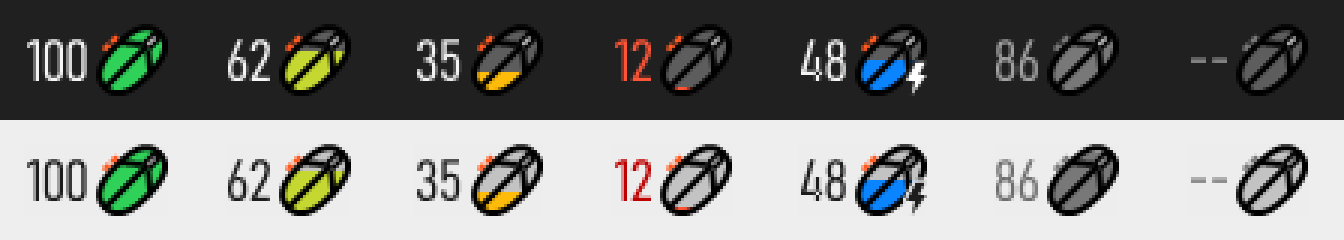
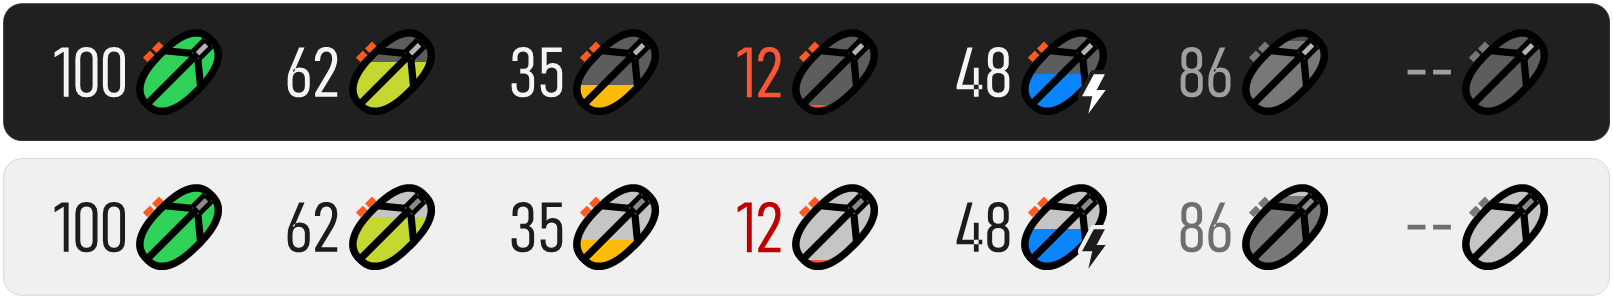
README: sharp pictures, default look up front, details in a gallery

diff --git a/README.md b/README.md
@@ -1,36 +1,37 @@
+<div align="center">
+
 **English** | [简体中文](README.zh-CN.md)
 
-# HypaceTray — Lofree Hypace battery level in the Windows taskbar
+# HypaceTray
 
-Shows the battery level of a Lofree Hypace mouse right in the Windows taskbar: the percentage, next to a small mouse that fills up with the charge. No need to open the web driver; hover for details.
+Battery level of the Lofree Hypace mouse, right in the Windows taskbar.
 
-![In the taskbar: the battery percentage and the mouse, right of ^](docs/images/taskbar.png)
+<img src="docs/images/hero.png" width="276" alt="The taskbar right of ^: 80 and the Hypace mouse">
 
-By default the mouse is a photo of the Hypace in Ghost, whose drained part turns see-through. All three colourways in every state (top three rows: dark taskbar, bottom three: light taskbar): full, 62%, 35%, 12% (number turns red), charging (with the bolt), asleep (no colour, showing the last level read), no reading yet (`--`).
+</div>
 
-![Realistic style: Crayon Grey, Jet Black and Ghost in every state](docs/images/realistic.png)
+HypaceTray puts the Hypace's battery level right of the taskbar's `^`: the percentage, next to a picture of the mouse that fills up with the charge. It talks to the mouse's 8K receiver directly, so there is no web driver to open; hover for details, left-click to refresh.
 
-The three ways the realistic mouse can show the level (picked under **Mouse style → Realistic**), at 62% and while charging:
+<p align="center">
+  <img src="docs/images/realistic-ghost.png" width="806" alt="The default look on a dark and a light taskbar, in every state">
+  <br>
+  <sub>The default look on a dark and a light taskbar: 100%, 62%, 35%, 12%, charging, asleep (last level read), no reading yet</sub>
+</p>
 
-![The three level displays for each colourway](docs/images/displays-en.png)
+Two more colourways, three ways of showing the level and a drawn style are in the right-click menu: see the **[Gallery](#gallery)**.
 
-The **Drawn** style in the same states (top row: dark taskbar, bottom row: light taskbar); it turns blue while charging:
-
-![Drawn style in every state](docs/images/drawn.png)
-
-The mouse photos are © Lofree; the pictures above are the program's own 20-pixel renders of them, enlarged 3x.
-
+> [!NOTE]
 > Unofficial tool, not affiliated with Lofree. It only reads the battery level and never changes any mouse settings.
 
 ## Requirements
 
-- Windows 11 (uses the .NET Framework 4.x that comes with Windows; nothing to install). Windows 10 should work too but is untested.
+- Windows 11, using the .NET Framework 4.x that comes with it; nothing to install. Windows 10 should work too but is untested.
 - A Lofree Hypace mouse with its 8K receiver (VID `0x3554`, PID `0xFB16`). Other models and receivers are untested.
 
 ## Install and run
 
 1. Download this repository: **Code → Download ZIP** and unzip it, or `git clone` it.
-2. Open PowerShell in the repository folder and run the command below. It builds `build\HypaceTray.exe` with the C# compiler that ships with Windows; no Visual Studio or .NET SDK needed:
+2. Open PowerShell in the repository folder and build `build\HypaceTray.exe` with the C# compiler that ships with Windows (no Visual Studio or .NET SDK needed):
 
    ```powershell
    powershell -ExecutionPolicy Bypass -File .\build.ps1
@@ -39,26 +40,87 @@ The mouse photos are © Lofree; the pictures above are the program's own 20-pixe
 3. Double-click `build\HypaceTray.exe`. To start it with Windows, tick **Start with Windows** in its right-click menu.
 4. On first run Windows usually tucks the new tray icon under `^`, so the battery first shows left of `^`. Open `^` and drag the number icon onto the taskbar (or turn HypaceTray on under Settings → Personalization → Taskbar → Other system tray icons); the battery then shows right of `^`.
 
-The menus, hover tips and notifications come in English (the default) and Chinese; switch at any time under **Language** in the right-click menu.
-
 ## Features
 
-- Right of the tray's `^` sits one block: the battery percentage, next to a Hypace mouse laid along the diagonal, 20% larger than a normal tray icon. The block takes a single tray slot and follows it when tray icons come and go.
-- The charge rises from the bottom of the mouse. At 20% and below the number itself turns orange or red; a notification pops up once at 20% and once at 10%.
-- While charging, the number climbs and the mouse fills up as the level rises, and a small bolt sits at the mouse's bottom right, like the bolt on Windows' own battery icon (white on a dark taskbar, black on a light one). The bolt is on by default; untick **Mouse style → Show charging bolt** to hide it.
-- A grey number and a colourless mouse mean the mouse is asleep and the last level read is shown; `--` with an empty mouse means no level has been read yet or the receiver was not found (hover to see the last level).
-- **Mouse style** in the right-click menu picks the mouse:
-  - **Realistic** (the default): the Hypace's product photo in one of its three colourways: **Crayon Grey**, **Jet Black** or **Ghost** (the default). The same submenu picks how the photo shows the level:
-    - **Drained part turns grey-white**: the charged part keeps the mouse's own colour, the part above it turns a pale grey-white.
-    - **Drained part turns see-through** (the default): the charged part keeps the mouse's own colour, the part above it turns faint, so the taskbar shows through it.
-    - **Charged part in level colours**: the charged part takes the drawn style's level colours (below) with the photo's light and shade, the orange side buttons keep their colour, and the part above turns grey-white.
-  - **Drawn**: a line drawing seen from above (wheel, Λ-shaped button seams, centre line, orange side buttons on the left), as in the last picture above. The charge's colour follows the level: 100% green → 70% yellow-green → 45% yellow → 25% orange → 10% and below red, blending smoothly in between, and turns blue while charging. The drained part is a translucent shell, so the whole mouse is always visible. The outline, centre line, seams and wheel well are 2 px black lines (black lines on colour look thinner than white lines, so they are a little wider than the taskbar's 1.5 px white strokes to look equally heavy).
-  - The realistic style needs one product photo per colourway. It is downloaded from lofree.co the first time that colourway is shown (for the default Ghost, at the first start) and kept on this computer (in `%APPDATA%\HypaceTray\photos`), so it is not downloaded again. Until the photo is there the drawn mouse is shown; the menu shows "(downloading…)" next to the colourway, or "(download failed, will retry)" if it could not be fetched, and it tries again a minute later. The photos are © Lofree and are not part of this repository; only the small renders pictured above are. Pick **Drawn** if the program should never go online.
-- Follows the taskbar's dark or light theme.
-- Left click: refresh now. Right-click menu: **Refresh now** / **Start with Windows** / **Open the official web driver** / **Mouse style** / **Language** (English or 中文) / **Exit**.
+- **One block in the tray.** The percentage and the mouse sit right of `^` in a single tray slot, the mouse 20% larger than a normal tray icon, and follow the tray as icons come and go.
+- **Level at a glance.** The charge rises from the bottom of the mouse. At 20% and below the number turns orange, then red, and a notification pops up at 20% and again at 10%.
+- **Charging.** The number climbs, the mouse fills up, and a small bolt sits at its bottom right, like the one on Windows' own battery icon.
+- **Asleep or not found.** A grey number and a colourless mouse mean the mouse is asleep and the last level read is shown; `--` with an empty mouse means no level yet or no receiver (hover for the last level).
+- **Dark or light taskbar**, followed automatically.
+- **English or Chinese**, English by default.
 - Reads the battery every 60 seconds while the mouse is online, and checks every 20 seconds whether it has come online.
 
-### How it is displayed
+### Right-click menu
+
+| Item | What it does |
+| --- | --- |
+| **Refresh now** | Reads the battery at once (a left-click does the same). |
+| **Start with Windows** | Starts HypaceTray when you sign in. |
+| **Open the official web driver** | Opens https://www.lofree.tech/ in the browser. |
+| **Mouse style** | The mouse picture and the charging bolt, see below. |
+| **Language** | English or 中文. |
+| **Exit** | Closes HypaceTray. |
+
+### Mouse style
+
+- **Realistic** (default): a photo of the Hypace in **Crayon Grey**, **Jet Black** or **Ghost** (default), showing the level in one of three ways:
+  - **Drained part turns grey-white**: above the charge, the mouse turns a pale grey-white.
+  - **Drained part turns see-through** (default): above the charge, the mouse turns faint and the taskbar shows through.
+  - **Charged part in level colours**: the charge takes the drawn style's colours, keeping the photo's light and shade; above it, grey-white.
+- **Drawn**: a line drawing of the Hypace seen from above. The charge is green at 100% and turns yellow-green, yellow, orange and red as it falls (70%, 45%, 25%, 10%), blue while charging; the drained part is a translucent shell.
+- **Show charging bolt**: on by default.
+
+The realistic style needs one product photo per colourway. It is downloaded from lofree.co the first time that colourway is shown (for the default Ghost, at the first start) and kept in `%APPDATA%\HypaceTray\photos`. Until it arrives the drawn mouse is shown and the menu marks the colourway "(downloading…)", or "(download failed, will retry)" with a new try a minute later. Pick **Drawn** if the program should never go online.
+
+## Gallery
+
+Drawn by the program itself, larger than on the taskbar. Mouse photos © Lofree; the photos themselves are not part of this repository.
+
+<details>
+<summary><b>Every colourway in every state</b></summary>
+<br>
+
+Dark taskbar above, light below: 100%, 62%, 35%, 12%, charging, asleep, no reading yet. Drained part see-through (the default).
+
+**Crayon Grey**
+
+<img src="docs/images/realistic-crayongrey.png" width="806" alt="Crayon Grey in every state">
+
+**Jet Black**
+
+<img src="docs/images/realistic-jetblack.png" width="806" alt="Jet Black in every state">
+
+**Ghost** (default)
+
+<img src="docs/images/realistic-ghost.png" width="806" alt="Ghost in every state">
+
+</details>
+
+<details>
+<summary><b>The three level displays</b></summary>
+<br>
+
+Each picture: 62% and charging.
+
+| | Crayon Grey | Jet Black | Ghost |
+| --- | :---: | :---: | :---: |
+| **Drained part turns grey-white** | <img src="docs/images/display-greywhite-crayongrey.png" width="200" alt="Crayon Grey, grey-white"> | <img src="docs/images/display-greywhite-jetblack.png" width="200" alt="Jet Black, grey-white"> | <img src="docs/images/display-greywhite-ghost.png" width="200" alt="Ghost, grey-white"> |
+| **Drained part turns see-through** (default) | <img src="docs/images/display-seethrough-crayongrey.png" width="200" alt="Crayon Grey, see-through"> | <img src="docs/images/display-seethrough-jetblack.png" width="200" alt="Jet Black, see-through"> | <img src="docs/images/display-seethrough-ghost.png" width="200" alt="Ghost, see-through"> |
+| **Charged part in level colours** | <img src="docs/images/display-levelcolour-crayongrey.png" width="200" alt="Crayon Grey, level colours"> | <img src="docs/images/display-levelcolour-jetblack.png" width="200" alt="Jet Black, level colours"> | <img src="docs/images/display-levelcolour-ghost.png" width="200" alt="Ghost, level colours"> |
+
+</details>
+
+<details>
+<summary><b>Drawn style</b></summary>
+<br>
+
+Dark taskbar above, light below, in the same states.
+
+<img src="docs/images/drawn.png" width="806" alt="The drawn style in every state">
+
+</details>
+
+## How it sits in the taskbar
 
 - A transparent tray icon holds a slot in the tray, and the battery block is a small window attached to the taskbar on top of it (the same technique TrafficMonitor uses on Windows 11). Because it is covered, that slot cannot be dragged to reorder it.
 - If the transparent icon gets tucked under `^`, the block moves to the left of `^`; drag the number icon from `^` onto the taskbar and the block returns to the right of `^`.
@@ -67,7 +129,7 @@ The menus, hover tips and notifications come in English (the default) and Chines
 
 ## Development
 
-- `build.ps1` builds three programs: `HypaceTray.exe` (the tray program), `icontests.exe` (tests for the icon drawing and the menu texts; it should print `PASS`) and `probe.exe [seconds]` (a command-line debugging tool that prints the receiver's raw replies and the battery level).
+`build.ps1` builds three programs: `HypaceTray.exe` (the tray program), `icontests.exe` (tests for the icon drawing and the menu texts; it should print `PASS`) and `probe.exe [seconds]` (a command-line debugging tool that prints the receiver's raw replies and the battery level).
 
 ## How it works
 

diff --git a/README.zh-CN.md b/README.zh-CN.md
@@ -1,36 +1,37 @@
+<div align="center">
+
 [English](README.md) | **简体中文**
 
-# HypaceTray — 在任务栏托盘显示洛斐 Hypace 鼠标电量
+# HypaceTray
 
-在 Windows 任务栏托盘里直接显示洛斐（Lofree）Hypace 鼠标的电量：百分比数字，加一只随电量填满的小鼠标。不用打开网页驱动，悬停可以看到详细信息。
+在 Windows 任务栏里直接显示洛斐 Hypace 鼠标的电量。
 
-![任务栏效果：^ 右边的电量数字和鼠标](docs/images/taskbar.png)
+<img src="docs/images/hero.png" width="276" alt="任务栏 ^ 右边：80 和 Hypace 鼠标">
 
-默认的鼠标是 Hypace Ghost 配色的产品照片，没电部分变透明。三种配色的各种状态（上面三排深色任务栏，下面三排浅色任务栏）：满电、62%、35%、12%（数字变红）、充电中（带闪电）、休眠（没有颜色，显示上次读到的电量）、还没读到电量（`--`）。
+</div>
 
-![仿真样式：Crayon Grey、Jet Black、Ghost 的各种状态](docs/images/realistic.png)
+HypaceTray 把洛斐（Lofree）Hypace 鼠标的电量显示在任务栏 `^` 的右边：电量百分比，加一只随电量填满的小鼠标。程序直接和鼠标的 8K 接收器通信，不用打开网页驱动；悬停看详细信息，左键单击立即刷新。
 
-仿真鼠标显示电量的三种方式（在"鼠标样式 → 仿真"里选），62% 和充电中：
+<p align="center">
+  <img src="docs/images/realistic-ghost.png" width="806" alt="默认样式在深色和浅色任务栏上的各种状态">
+  <br>
+  <sub>默认样式，深色和浅色任务栏：100%、62%、35%、12%、充电中、休眠（显示上次读到的电量）、还没读到电量</sub>
+</p>
 
-![每种配色的三种电量显示方式](docs/images/displays-zh.png)
+右键菜单里还有另外两种配色、三种电量显示方式和线条样式，见 **[效果图](#效果图)**。
 
-"线条"样式的同样这些状态（上排深色任务栏，下排浅色任务栏），充电时变蓝：
-
-![线条样式的各种状态](docs/images/drawn.png)
-
-鼠标照片版权归洛斐（Lofree）所有；上面这些图是程序自己画出的 20 像素图标，放大了 3 倍。
-
+> [!NOTE]
 > 非官方工具，和洛斐（Lofree）没有关系。程序只查询电量，不会写入任何鼠标设置。
 
 ## 需要
 
-- Windows 11（用到系统自带的 .NET Framework 4.x，不用另外安装）。Windows 10 应该也能运行，但没有测试过。
+- Windows 11，用系统自带的 .NET Framework 4.x，不用另外安装。Windows 10 应该也能运行，但没有测试过。
 - 洛斐 Hypace 鼠标和它的 8K 接收器（VID `0x3554`，PID `0xFB16`）。其他型号或接收器没有测试过。
 
 ## 安装和运行
 
 1. 下载本仓库：点 **Code → Download ZIP** 后解压，或者 `git clone`。
-2. 在仓库目录里打开 PowerShell，运行下面的命令。它用 Windows 自带的 C# 编译器生成 `build\HypaceTray.exe`，不需要安装 Visual Studio 或 .NET SDK：
+2. 在仓库目录里打开 PowerShell，运行下面的命令，用 Windows 自带的 C# 编译器生成 `build\HypaceTray.exe`（不需要 Visual Studio 或 .NET SDK）：
 
    ```powershell
    powershell -ExecutionPolicy Bypass -File .\build.ps1
@@ -39,26 +40,89 @@
 3. 双击 `build\HypaceTray.exe`。想开机自动运行，在右键菜单里勾选 Start with Windows（中文界面下是"开机自启动"）。
 4. 第一次运行时，Windows 通常会把新的托盘图标收进 `^` 里，这时电量会先显示在 `^` 的左边。点开 `^`，把里面的数字图标拖到任务栏上（或者在 设置 → 个性化 → 任务栏 → 其他系统托盘图标 里打开 HypaceTray），电量就会显示在 `^` 的右边。
 
-菜单、悬停提示和通知有英文（默认）和中文两种，随时可以在右键菜单的 Language（中文界面下叫"语言"）里切换。
-
 ## 功能
 
-- 托盘里 `^` 的右边显示一整块：电量百分比的数字，紧挨着一只沿对角线斜放的 Hypace 鼠标，比普通托盘图标大 20%。它只占一个托盘格位，托盘图标增减时会自动跟着挪位置。
-- 鼠标里的电量从下往上涨。电量 ≤20% 时，数字本身也会变成橙色或红色；电量降到 20% 和 10% 时各弹一次提醒。
-- 充电时，数字随电量往上涨，鼠标里的电量也跟着往上填；鼠标右下角还有一个小闪电，和 Windows 自己电池图标里的闪电一样（深色任务栏上是白色，浅色任务栏上是黑色）。闪电默认打开，不想要的话，在右键菜单的"鼠标样式 → 充电时显示闪电"里取消勾选。
-- 数字变灰、鼠标没有颜色，表示鼠标在休眠，显示的是上次读到的电量；数字显示 `--`、鼠标是空的，表示还没读到过电量，或者没找到接收器（悬停可以看到上次的电量）。
-- 右键菜单的"鼠标样式"可以选鼠标的样子：
-  - "仿真"（默认）：用 Hypace 的产品照片，三种配色任选：Crayon Grey、Jet Black、Ghost（默认）。同一个子菜单里还能选照片怎么显示电量：
-    - "没电部分变灰白"：有电的部分保持鼠标本来的颜色，上面没电的部分变成浅灰白。
-    - "没电部分变透明"（默认）：有电的部分保持鼠标本来的颜色，上面没电的部分变淡，能透出任务栏。
-    - "电量部分用电量颜色"：有电的部分换成线条样式的电量颜色（见下），保留照片的明暗，橙色侧键保持原色；上面没电的部分变成灰白。
-  - "线条"：从上方看的线条鼠标（滚轮、倒 V 按键分缝、中缝、左侧橙色侧键），就是上面最后一张图里的样子。电量的颜色随电量变化：100% 绿 → 70% 黄绿 → 45% 黄 → 25% 橙 → 10% 以下红，中间平滑过渡，充电时变蓝。没电的部分是半透明的底壳，整只鼠标始终看得见；鼠标的外圈、中缝、分缝和滚轮槽用 2 像素黑线画（黑线在彩色上看起来比白线细，所以比任务栏 1.5 像素的白线宽一点，视觉上一样粗）。
-  - 仿真样式每种配色需要一张产品照片：第一次显示这种配色时（默认的 Ghost 就是第一次启动时）从 lofree.co 下载，保存在本机（`%APPDATA%\HypaceTray\photos`），以后不再下载。照片下载好之前先显示线条鼠标；菜单里这个配色后面会显示"（下载中…）"，下载不了时显示"（下载失败，稍后重试）"，一分钟后再试。照片版权归洛斐（Lofree）所有，不包含在本仓库里，仓库里只有上面那些小图标渲染图。如果不希望程序联网，选"线条"即可。
-- 跟随任务栏的深色/浅色主题。
-- 左键单击：立即刷新。右键菜单：立即刷新 / 开机自启动 / 打开官方网页驱动 / 鼠标样式 / 语言（English 或 中文）/ 退出。
+- **托盘里的一整块。** 电量数字和鼠标显示在 `^` 右边，只占一个托盘格位，鼠标比普通托盘图标大 20%；托盘图标增减时会自动跟着挪位置。
+- **电量一眼可见。** 鼠标里的电量从下往上涨。电量 ≤20% 时数字变成橙色、再到红色，电量降到 20% 和 10% 时各弹一次提醒。
+- **充电。** 数字往上涨，鼠标跟着填满，右下角还有一个小闪电，和 Windows 自己电池图标里的闪电一样。
+- **休眠或没找到接收器。** 数字变灰、鼠标没有颜色，表示鼠标在休眠，显示的是上次读到的电量；数字显示 `--`、鼠标是空的，表示还没读到电量或者没找到接收器（悬停可以看到上次的电量）。
+- **深色/浅色任务栏**，自动跟随。
+- **英文或中文**，默认英文。
 - 鼠标在线时每 60 秒读一次电量，离线时每 20 秒检查一次是否上线。
 
-### 显示方式说明
+### 右键菜单
+
+菜单默认是英文；在 Language 里选"中文"后，就是下面这些名字。
+
+| 菜单项 | 作用 |
+| --- | --- |
+| **立即刷新** | 马上读一次电量（左键单击也一样）。 |
+| **开机自启动** | 登录 Windows 时自动启动 HypaceTray。 |
+| **打开官方网页驱动** | 在浏览器里打开 https://www.lofree.tech/。 |
+| **鼠标样式** | 鼠标的样子和充电闪电，见下。 |
+| **语言** | English 或中文。 |
+| **退出** | 关闭 HypaceTray。 |
+
+### 鼠标样式
+
+- **仿真**（默认）：Hypace 的产品照片，配色可选 **Crayon Grey**、**Jet Black**、**Ghost**（默认），电量有三种显示方式：
+  - **没电部分变灰白**：电量以上的部分变成浅灰白。
+  - **没电部分变透明**（默认）：电量以上的部分变淡，透出任务栏。
+  - **电量部分用电量颜色**：有电的部分换成线条样式的电量颜色，保留照片的明暗；以上的部分变成灰白。
+- **线条**：从上方看的 Hypace 线条画。电量 100% 时是绿色，随着电量下降依次变成黄绿、黄、橙、红（70%、45%、25%、10%），充电时变蓝；没电的部分是半透明的底壳。
+- **充电时显示闪电**：默认打开。
+
+仿真样式每种配色需要一张产品照片：第一次显示这种配色时（默认的 Ghost 就是第一次启动时）从 lofree.co 下载，保存在 `%APPDATA%\HypaceTray\photos`。下载好之前先显示线条鼠标，菜单里这个配色后面会显示"（下载中…）"，下载不了时显示"（下载失败，稍后重试）"，一分钟后再试。如果不希望程序联网，选 **线条** 即可。
+
+## 效果图
+
+图都是程序自己画的，比任务栏上的大。鼠标照片版权归洛斐（Lofree）所有，照片本身不包含在本仓库里。
+
+<details>
+<summary><b>三种配色的各种状态</b></summary>
+<br>
+
+上面是深色任务栏，下面是浅色任务栏：100%、62%、35%、12%、充电中、休眠、还没读到电量。没电部分变透明（默认）。
+
+**Crayon Grey**
+
+<img src="docs/images/realistic-crayongrey.png" width="806" alt="Crayon Grey 的各种状态">
+
+**Jet Black**
+
+<img src="docs/images/realistic-jetblack.png" width="806" alt="Jet Black 的各种状态">
+
+**Ghost**（默认）
+
+<img src="docs/images/realistic-ghost.png" width="806" alt="Ghost 的各种状态">
+
+</details>
+
+<details>
+<summary><b>三种电量显示方式</b></summary>
+<br>
+
+每张图：62% 和充电中。
+
+| | Crayon Grey | Jet Black | Ghost |
+| --- | :---: | :---: | :---: |
+| **没电部分变灰白** | <img src="docs/images/display-greywhite-crayongrey.png" width="200" alt="Crayon Grey，没电部分变灰白"> | <img src="docs/images/display-greywhite-jetblack.png" width="200" alt="Jet Black，没电部分变灰白"> | <img src="docs/images/display-greywhite-ghost.png" width="200" alt="Ghost，没电部分变灰白"> |
+| **没电部分变透明**（默认） | <img src="docs/images/display-seethrough-crayongrey.png" width="200" alt="Crayon Grey，没电部分变透明"> | <img src="docs/images/display-seethrough-jetblack.png" width="200" alt="Jet Black，没电部分变透明"> | <img src="docs/images/display-seethrough-ghost.png" width="200" alt="Ghost，没电部分变透明"> |
+| **电量部分用电量颜色** | <img src="docs/images/display-levelcolour-crayongrey.png" width="200" alt="Crayon Grey，电量部分用电量颜色"> | <img src="docs/images/display-levelcolour-jetblack.png" width="200" alt="Jet Black，电量部分用电量颜色"> | <img src="docs/images/display-levelcolour-ghost.png" width="200" alt="Ghost，电量部分用电量颜色"> |
+
+</details>
+
+<details>
+<summary><b>线条样式</b></summary>
+<br>
+
+上面是深色任务栏，下面是浅色任务栏，状态同上。
+
+<img src="docs/images/drawn.png" width="806" alt="线条样式的各种状态">
+
+</details>
+
+## 在任务栏里的显示方式
 
 - 托盘里有一个透明的托盘图标占住格位，电量这一块是盖在它上面、贴在任务栏上的小窗口（和 TrafficMonitor 在 Windows 11 上的做法一样）。因为被盖住了，这个格位没法拖动排序。
 - 如果那个透明图标被收进了 `^`，这一块会改到 `^` 的左边显示；把 `^` 里的数字图标拖到任务栏上，这一块就会回到 `^` 右边。
@@ -67,7 +131,7 @@
 
 ## 开发
 
-- `build.ps1` 同时生成三个程序：`HypaceTray.exe`（托盘程序）、`icontests.exe`（图标绘制和菜单文字的测试，运行后应显示 `PASS`）、`probe.exe [秒数]`（命令行调试工具，打印接收器返回的原始数据和电量）。
+`build.ps1` 同时生成三个程序：`HypaceTray.exe`（托盘程序）、`icontests.exe`（图标绘制和菜单文字的测试，运行后应显示 `PASS`）、`probe.exe [秒数]`（命令行调试工具，打印接收器返回的原始数据和电量）。
 
 ## 原理
 
